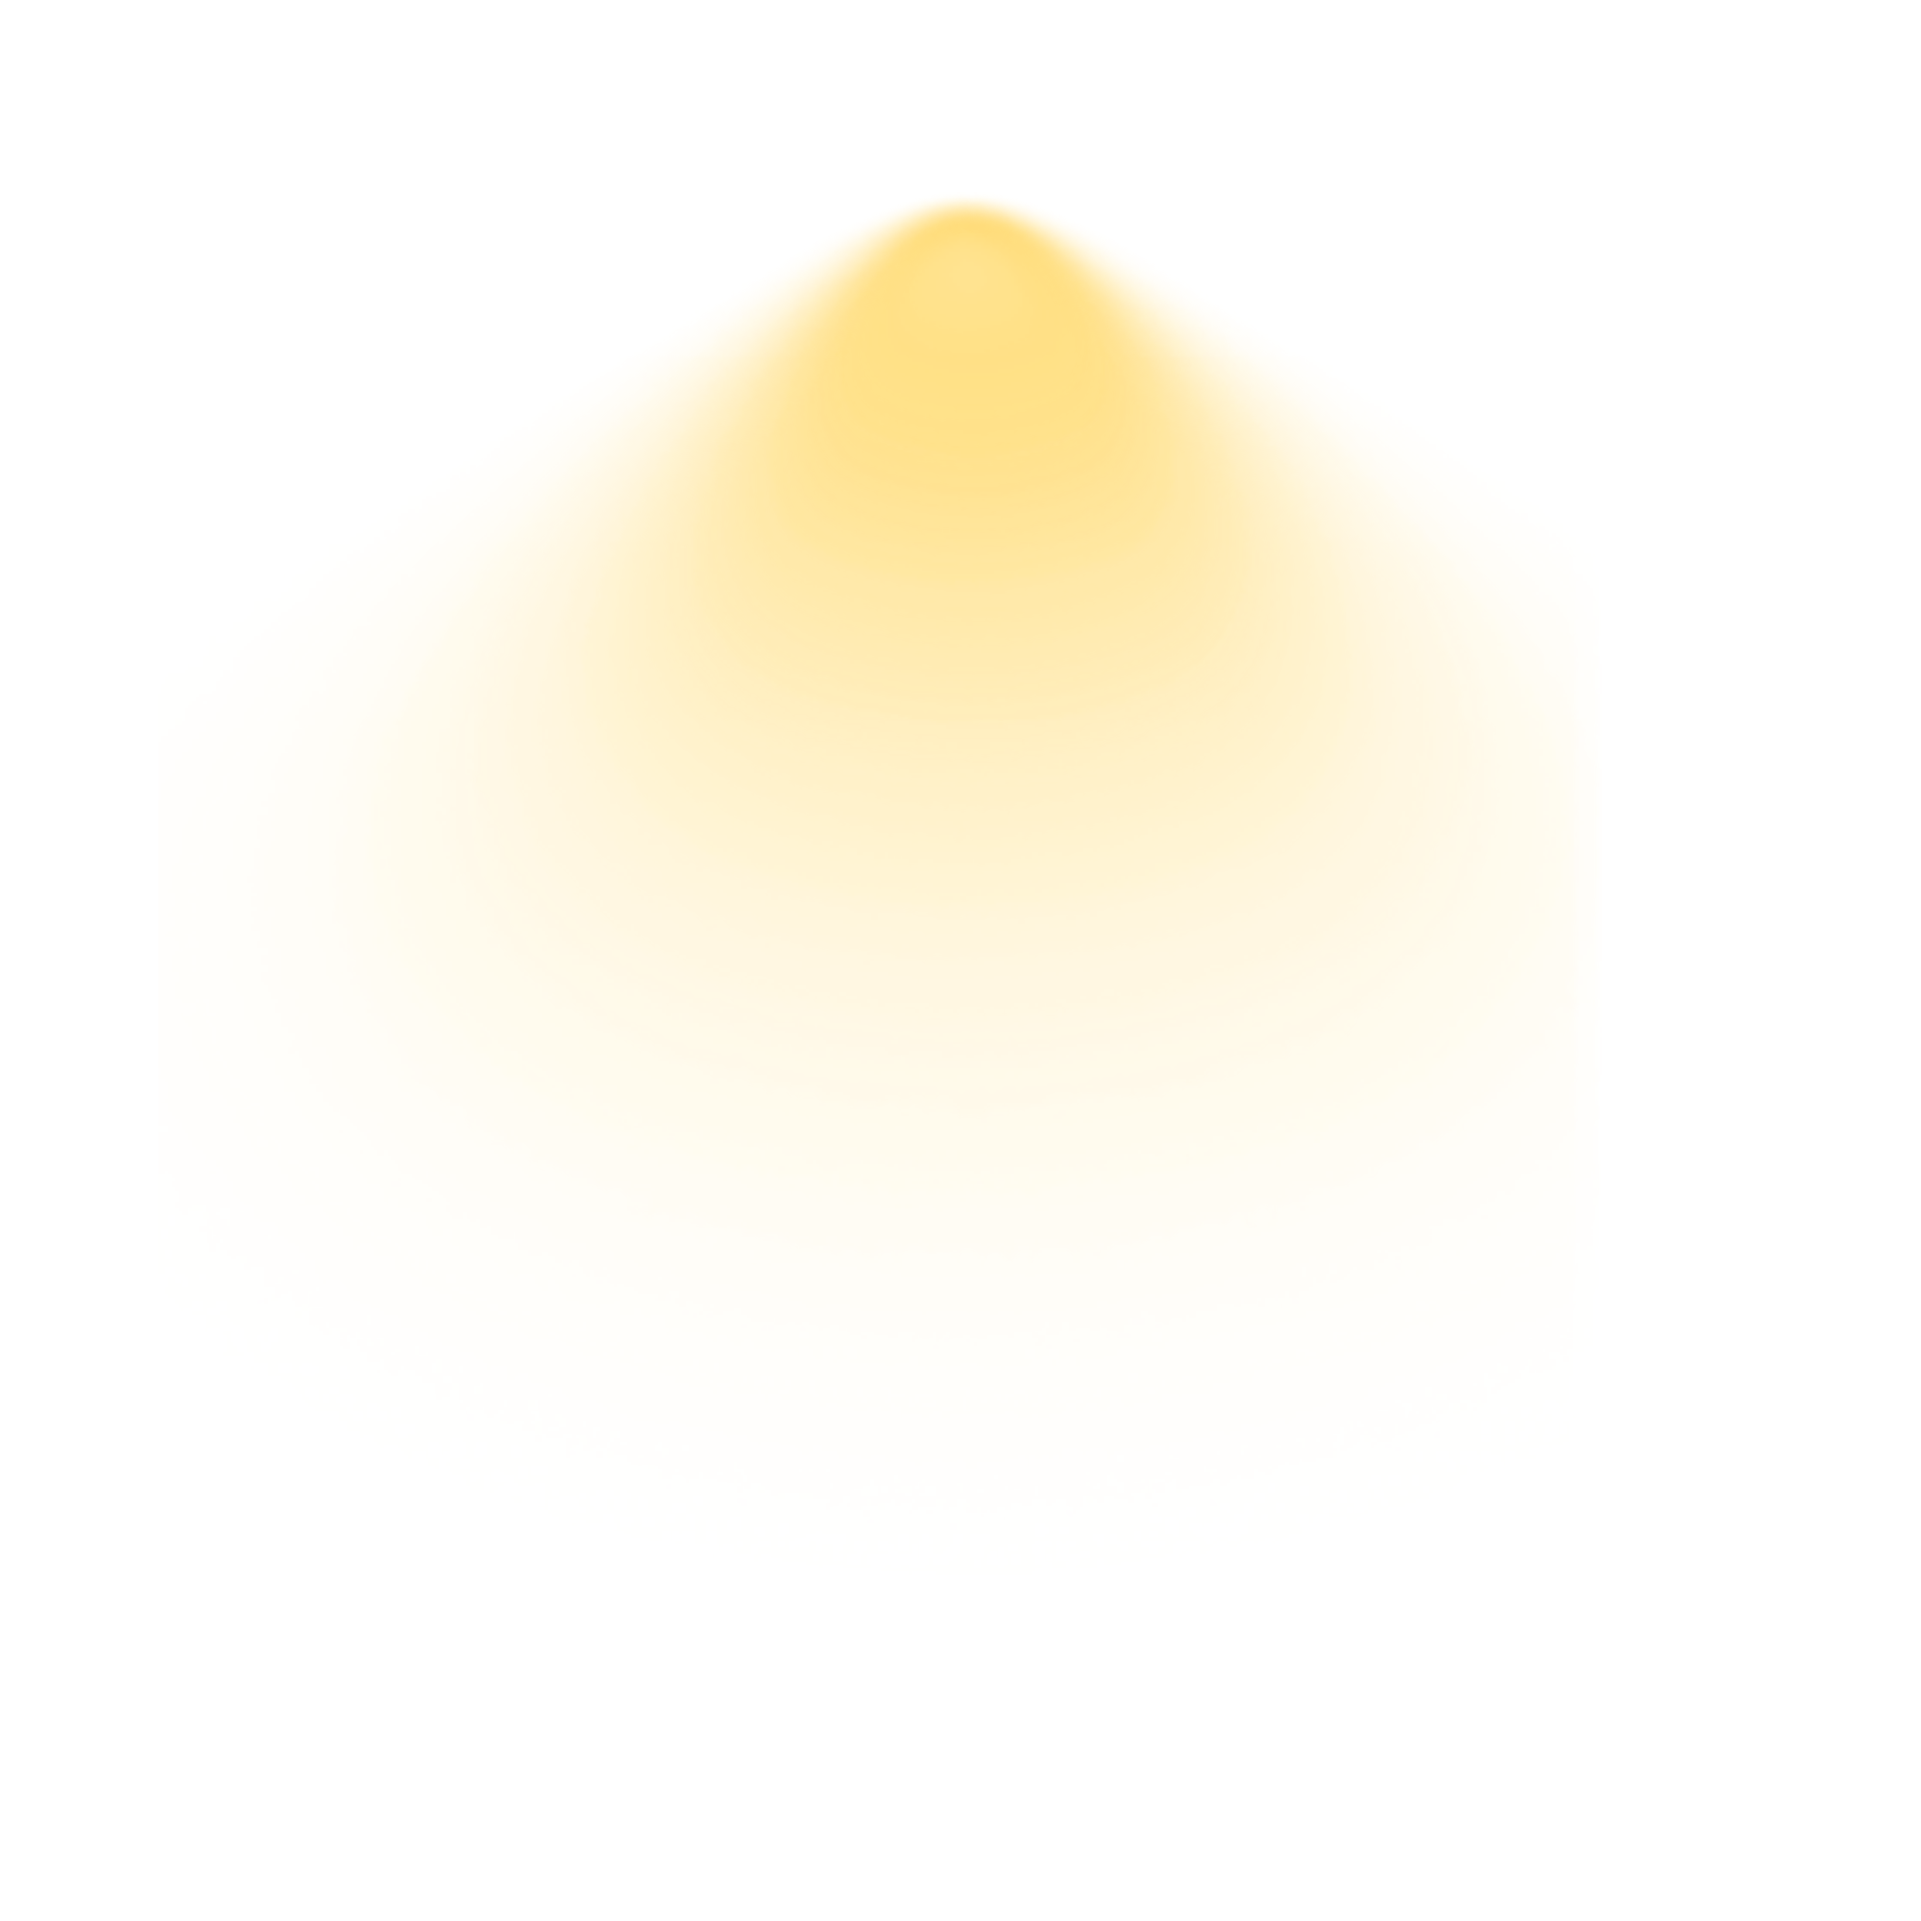
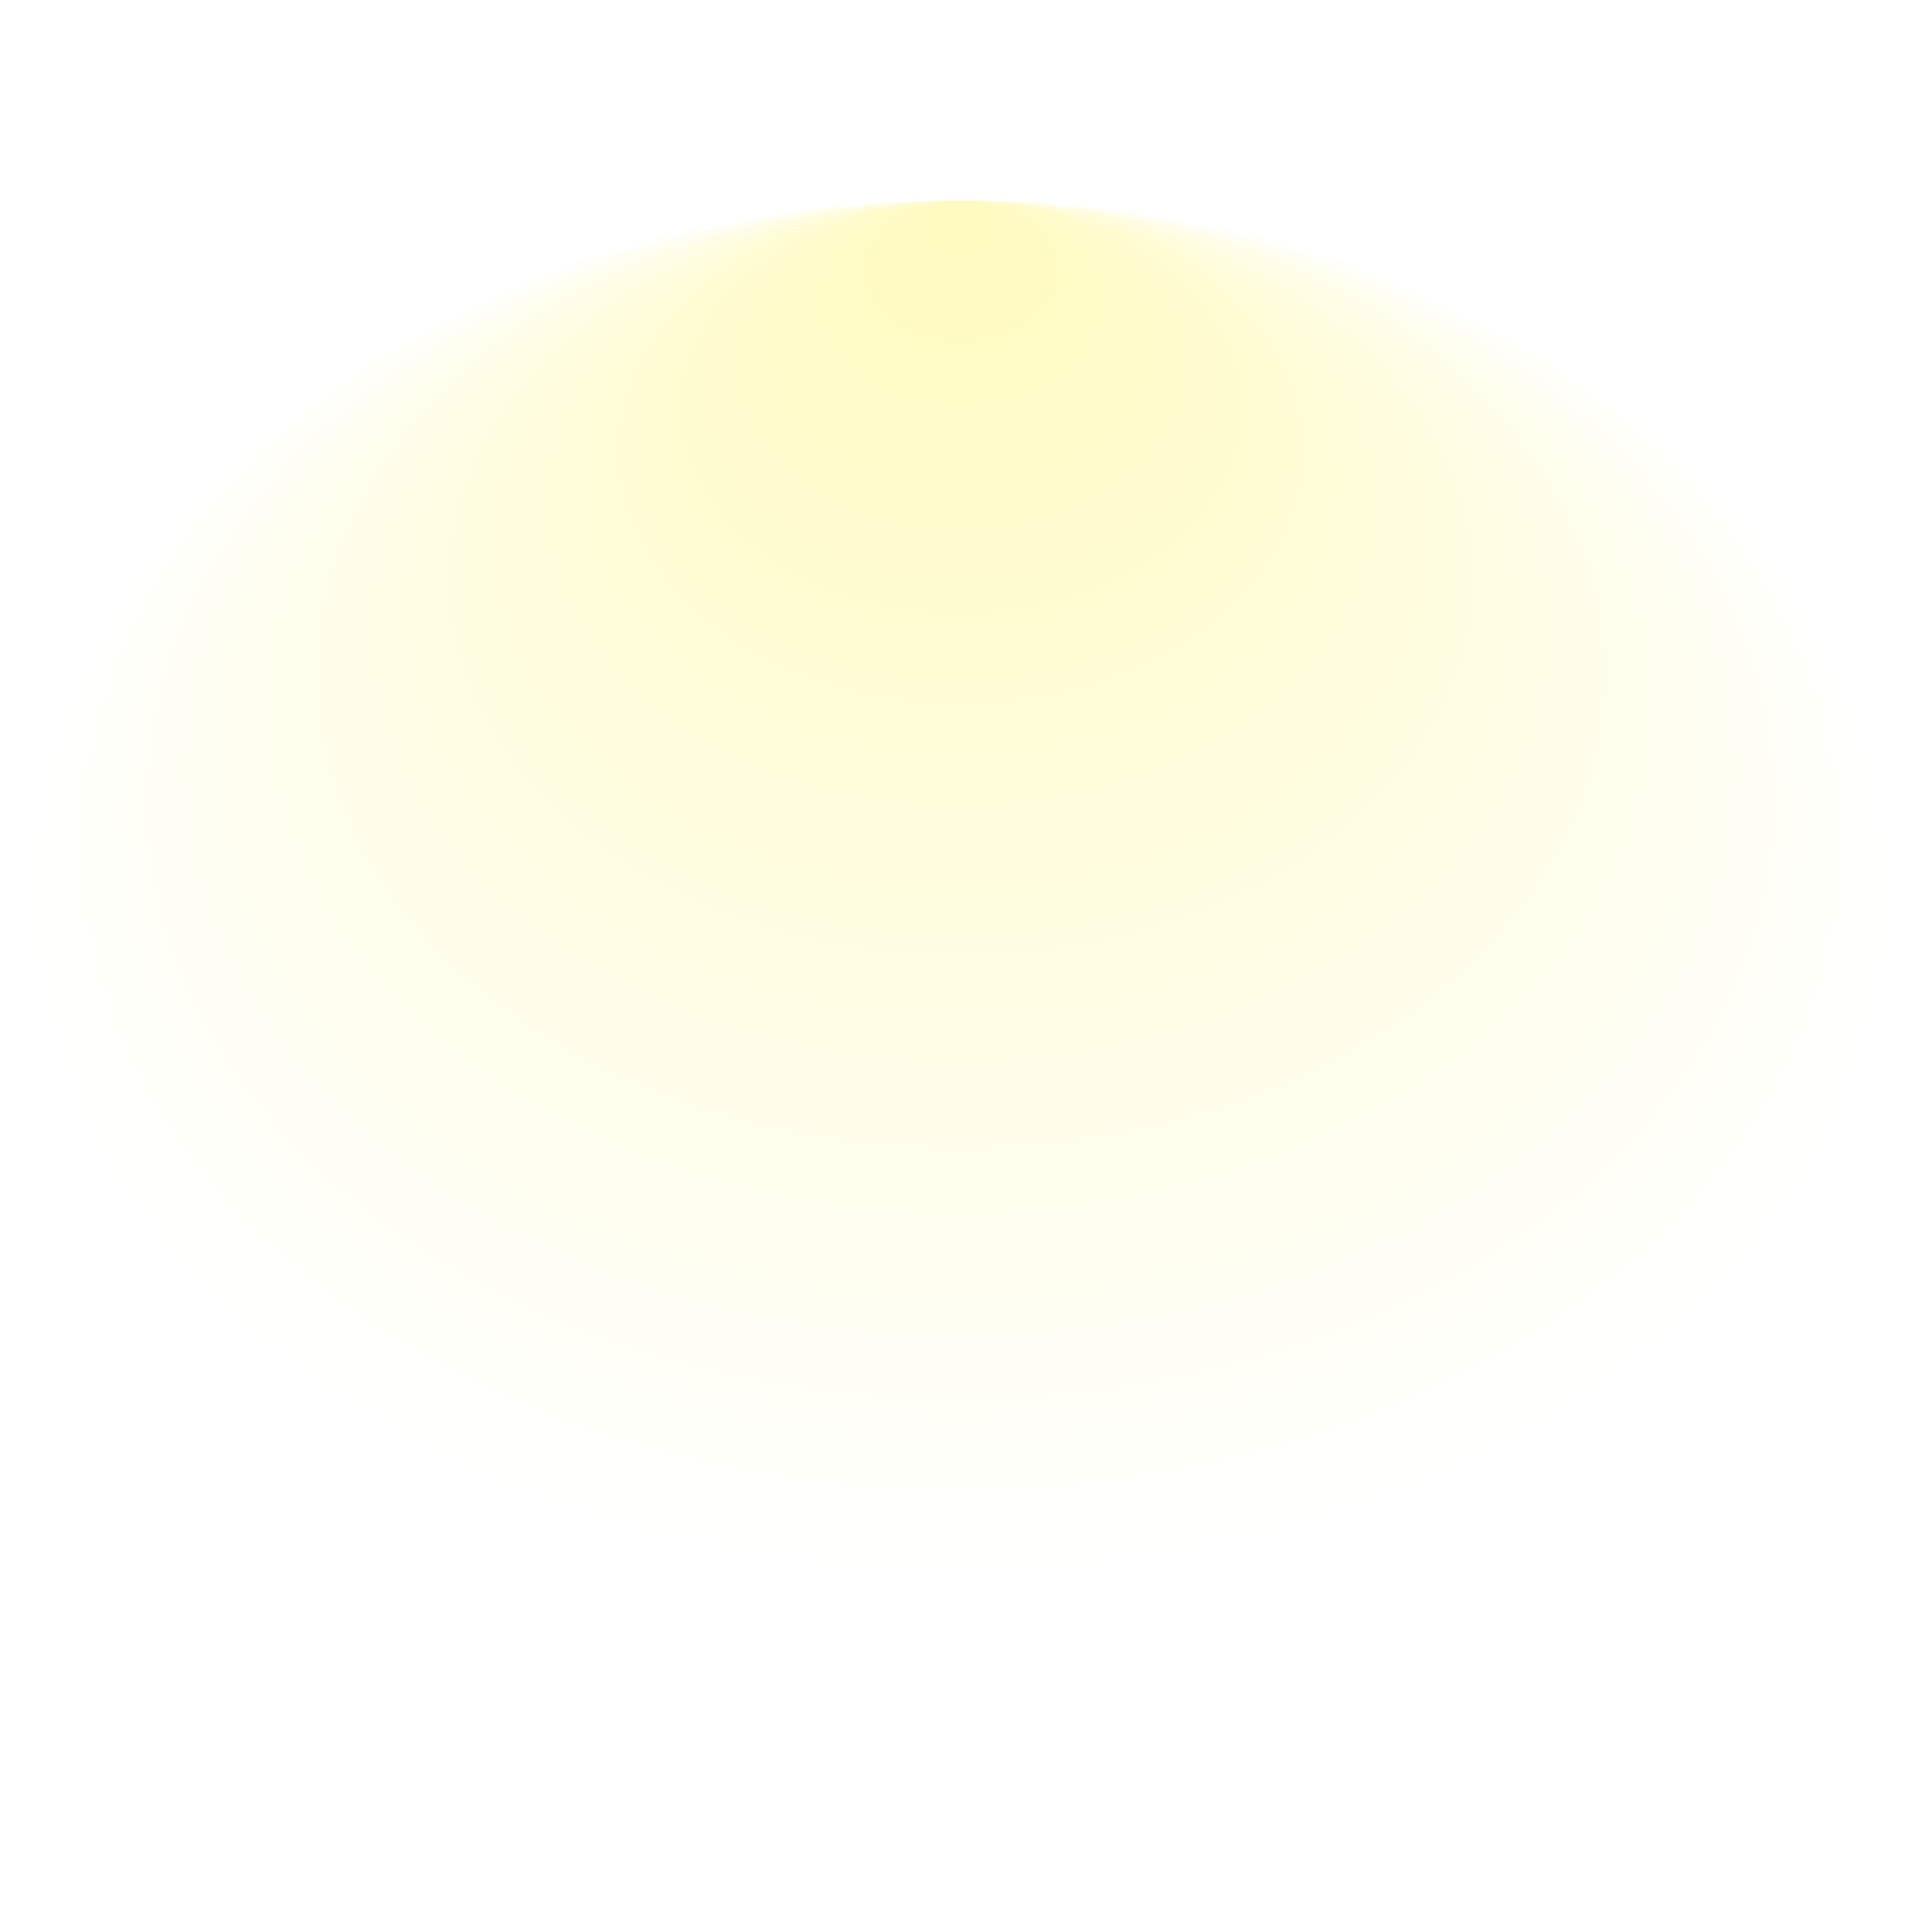
Desktop: alt light fixture behind carousel, position and size tuning

Changed region(s): [[0.217, 0.093, 0.775, 0.403]]

diff --git a/src/pages/ShopPage.jsx b/src/pages/ShopPage.jsx
@@ -7,31 +7,27 @@ import ShopFooter from '../components/ShopFooter'
 const COLLECTIONS = [
   {
     id: 'originals',
-    title: 'Original\nPaintings',
+    title: 'Original Paintings',
     desc: [
-      'An original painting is a one-of-a-kind artwork — ideated, designed, and produced entirely by me.',
-      'Owning an original means acquiring something truly unique, with both artistic and enduring value. These works are created to be lived with, collected, and cherished over time.',
-      'Prices and sizes range from accessible pieces to highly collectible works, welcoming both new and seasoned collectors.',
+      'An original painting is a one of a kind artwork produced by the artist. It is ideated, designed and produced by me.'
     ],
     link: '/shop/browse?tab=originals',
     image: '/originals.jpg',
   },
   {
     id: 'prints',
-    title: 'Fine Art\nPrints',
+    title: 'Fine Art Prints',
     desc: [
-      'Prints are high-quality reproductions of my paintings on various surfaces — own the work you love without the original price tag.',
-      'Available as postcards, small wall prints, and collectible series. You can also sign yourself or a loved one up for a weekly or monthly postcard club.',
+      'Prints are high quality reproductions of my paintings on various surfaces, so you can own the work you love without the original price tag.'
     ],
     link: '/shop/browse?tab=prints',
     image: '/prints.jpg',
   },
   {
     id: 'commissions',
-    title: 'Commissioned\nWorks',
+    title: 'Commissions',
     desc: [
-      'If something about my style speaks to you — a place that means something, a feeling you want held on canvas, a scene you\'ve been imagining — we can work together to bring it to life.',
-      'Since this requires time and care, I only take on a small number of commissions.',
+      'If my style speaks to you and you have a specific idea in mind, we can work together to bring it to life.'
     ],
     link: '/shop/browse?tab=commissions',
     image: '/commissions.jpg',

diff --git a/src/App.css b/src/App.css
@@ -1029,6 +1029,7 @@ html.dark .about-socials a:hover { color: #E7DDD9; }
   align-items: center;
   justify-content: center;
   overflow: hidden;
+  z-index: 1; /* sits above light fixture when fixture is at z-index: 0 */
 }
 .museum-wall:active { cursor: default; }
 
@@ -1038,16 +1039,17 @@ html.dark .about-socials a:hover { color: #E7DDD9; }
 /* ── Light fixture: hangs from the top of the gallery section ── */
 .museum-light-fixture {
   position: absolute;
-  top: -22%;
+  top: -6%;
   left: 50%;
   transform: translateX(-50%);
-  width: clamp(500px, 90%, 1100px);
+  width: clamp(450px, 70%, 850px);
   pointer-events: none;
-  z-index: 10;
+  z-index: 0;        /* behind museum-wall (z-index: 1) */
+  opacity: 0.75;
   display: block;
 }
-/* desktop: show original, hide alt */
-.museum-light-fixture--alt { display: none; }
+/* desktop: use alt fixture only */
+.museum-light-fixture--orig { display: none; }
 
 /* Horizontal row: far-left | near-left | center | near-right | far-right */
 /* ── Carousel zone: scroll + drag intercept, narrow band only ─── */
@@ -3593,8 +3595,6 @@ html.dark .about-socials a:hover { color: #E7DDD9; }
 
 /* ===== GALLERY MOBILE ===== */
 @media (max-width: 768px) {
-  /* switch to alternate fixture on mobile */
-  .museum-light-fixture--orig { display: none; }
   .museum-light-fixture--alt  {
     display: block;
     width: 100%;
@@ -3602,6 +3602,8 @@ html.dark .about-socials a:hover { color: #E7DDD9; }
     top: 0;
     transform: translateX(-50%) scale(1.6);
     transform-origin: top center;
+    z-index: 0;       /* behind museum-wall (z-index: 1) */
+    opacity: 0.75;    /* soften so it reads as ambient glow */
   }
 
   .museum-strip {
